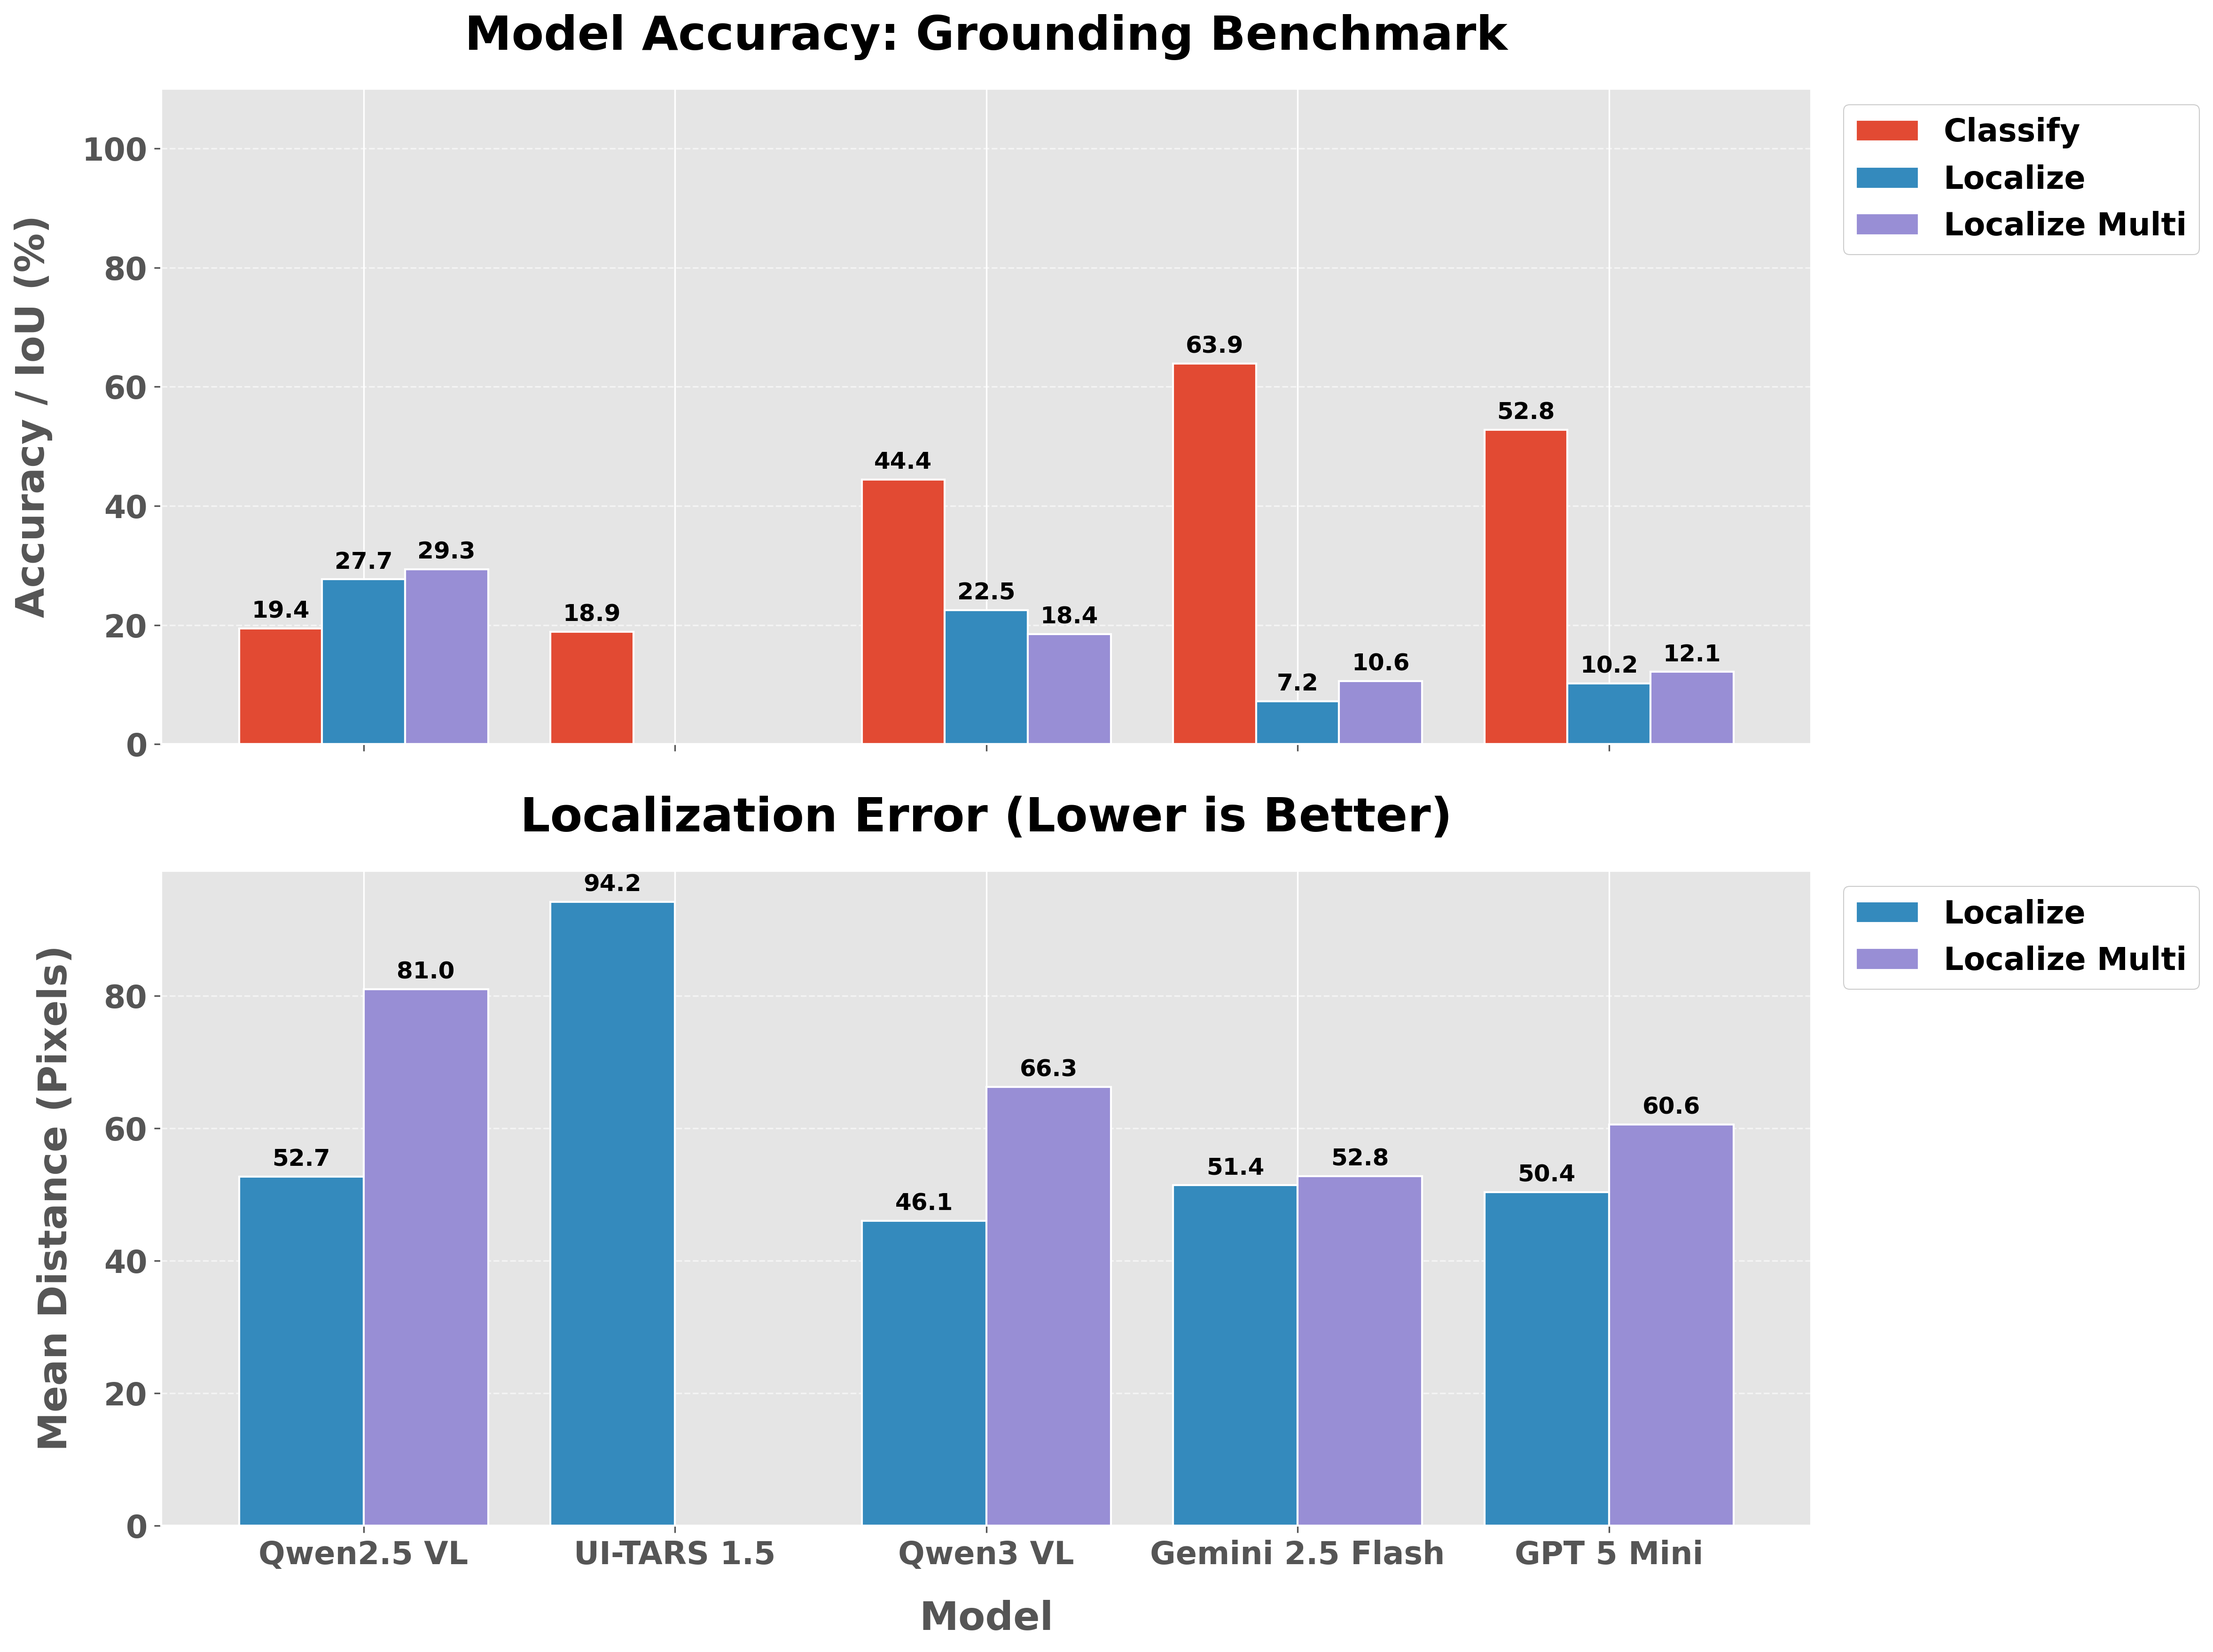
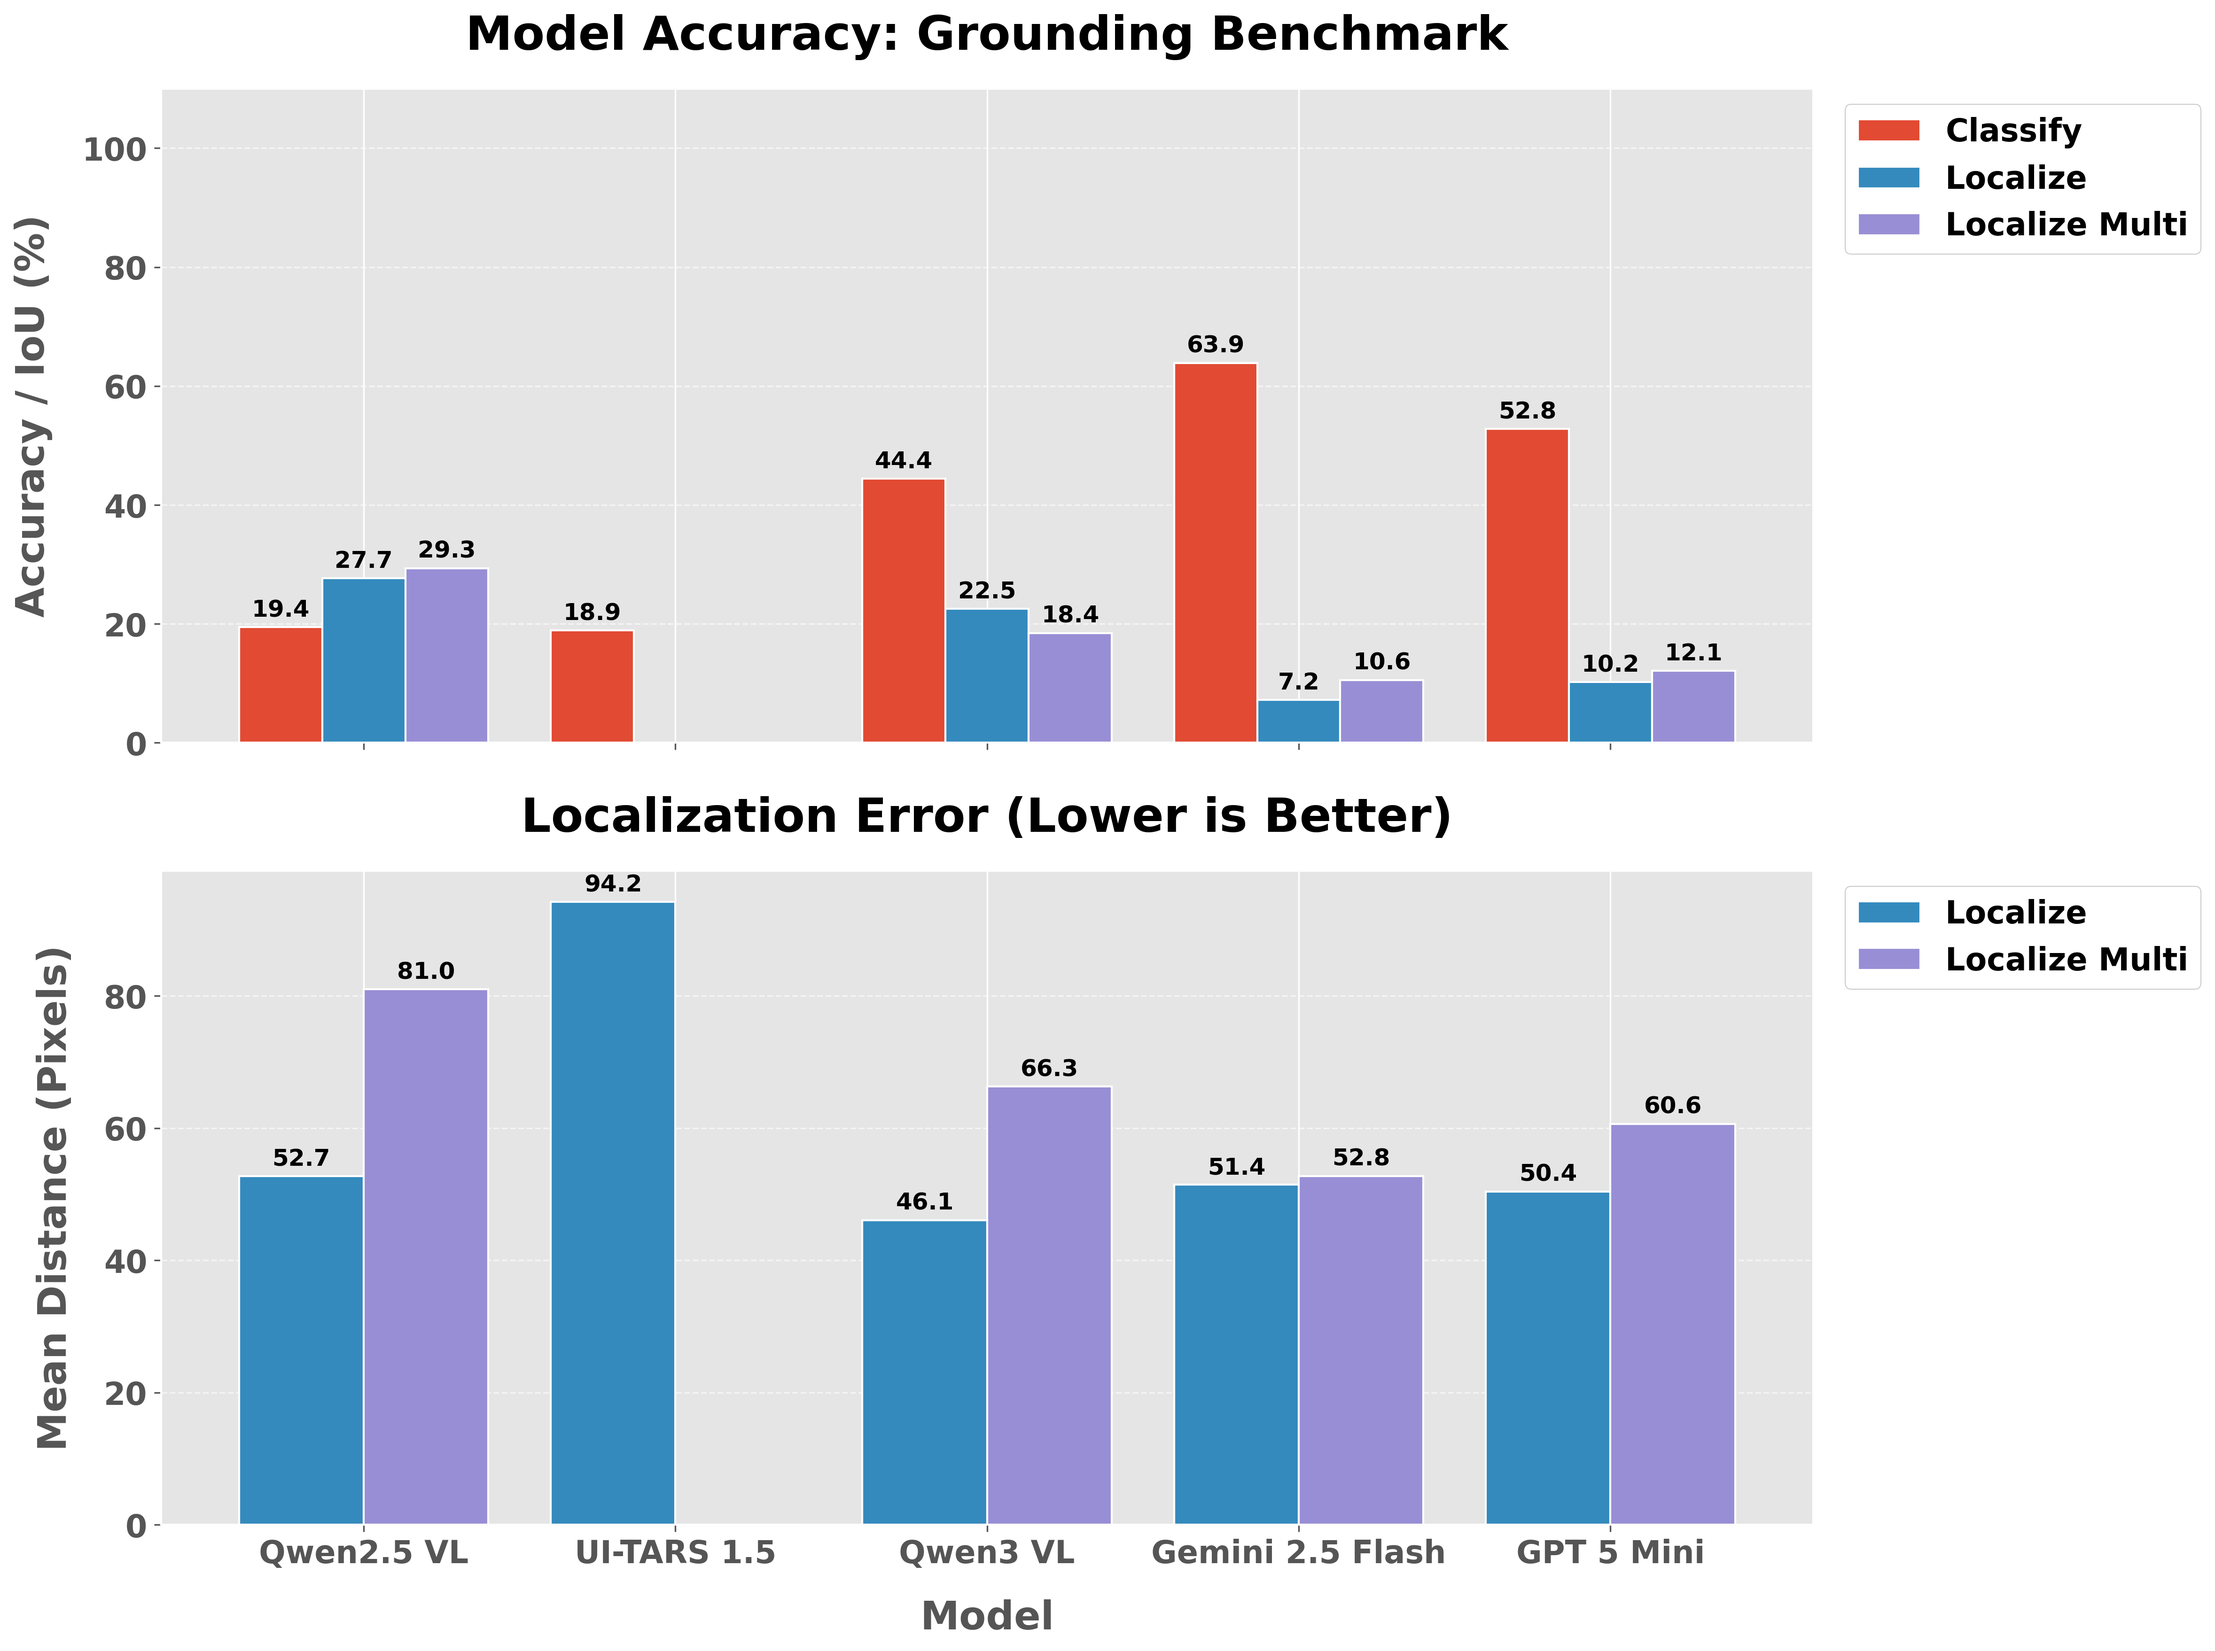
add bench1 total metric to csv

Changed region(s): [[0.9053, 0.5582, 0.9365, 0.5892]]

diff --git a/benchmark1_grounding/visualize.py b/benchmark1_grounding/visualize.py
@@ -151,6 +151,49 @@ def plot_benchmark(df):
             print(pivot_dist_clean.round(2))
         else:
             print("No distance metrics available.")
+    
+    # Calculate distance-based score: 100% - 100 * distance / sqrt(640^2 + 441^2)
+    max_distance = np.sqrt(640**2 + 441**2)  # ≈777.1
+    pivot_dist_score = 100 - (100 * pivot_dist / max_distance)
+    
+    # For Localize Multi NaN values, use Localize values
+    if 'Localize Multi' in pivot_dist_score.columns and 'Localize' in pivot_dist_score.columns:
+        pivot_dist_score['Localize Multi'] = pivot_dist_score['Localize Multi'].fillna(pivot_dist_score['Localize'])
+    
+    pivot_dist_score_clean = pivot_dist_score.dropna(axis=1, how='all')
+    
+    print("\n" + "=" * 50)
+    print("   BENCHMARK RESULTS: DISTANCE-BASED SCORE (%)")
+    print("   (100% - 100 * distance / diagonal)")
+    print("=" * 50)
+    with pd.option_context('display.max_rows', None, 'display.max_columns', None, 'display.width', 1000):
+        if not pivot_dist_score_clean.empty:
+            print(pivot_dist_score_clean.round(2))
+        else:
+            print("No distance metrics available.")
+    
+    # Calculate combined metric: 1/5 * (classify + iou_localize + iou_multi + dist_localize + dist_multi)
+    # Only average across available (non-NaN) values for each model
+    combined_metric = pd.DataFrame(index=pivot_score.index)
+    
+    # Add each component (keep NaN for missing data)
+    combined_metric['Classify'] = pivot_score.get('Classify', pd.Series(index=pivot_score.index, dtype=float))
+    combined_metric['IoU_Localize'] = pivot_score.get('Localize', pd.Series(index=pivot_score.index, dtype=float))
+    combined_metric['IoU_Multi'] = pivot_score.get('Localize Multi', pd.Series(index=pivot_score.index, dtype=float))
+    
+    # For distance scores, use original pivot_dist_score without fillna
+    pivot_dist_score_original = 100 - (100 * pivot_dist / max_distance)
+    combined_metric['Dist_Localize'] = pivot_dist_score_original.get('Localize', pd.Series(index=pivot_score.index, dtype=float))
+    combined_metric['Dist_Multi'] = pivot_dist_score_original.get('Localize Multi', pd.Series(index=pivot_score.index, dtype=float))
+    
+    # Calculate the average only across non-NaN values for each model
+    combined_metric['Overall'] = combined_metric[['Classify', 'IoU_Localize', 'IoU_Multi', 'Dist_Localize', 'Dist_Multi']].mean(axis=1, skipna=True)
+    
+    print("\n" + "=" * 50)
+    print("      COMBINED METRIC (Average of Available Components)")
+    print("=" * 50)
+    with pd.option_context('display.max_rows', None, 'display.max_columns', None, 'display.width', 1000):
+        print(combined_metric[['Overall']].sort_values('Overall', ascending=False).round(2))
     print("=" * 50 + "\n")
 
     # --- PLOTTING ---
